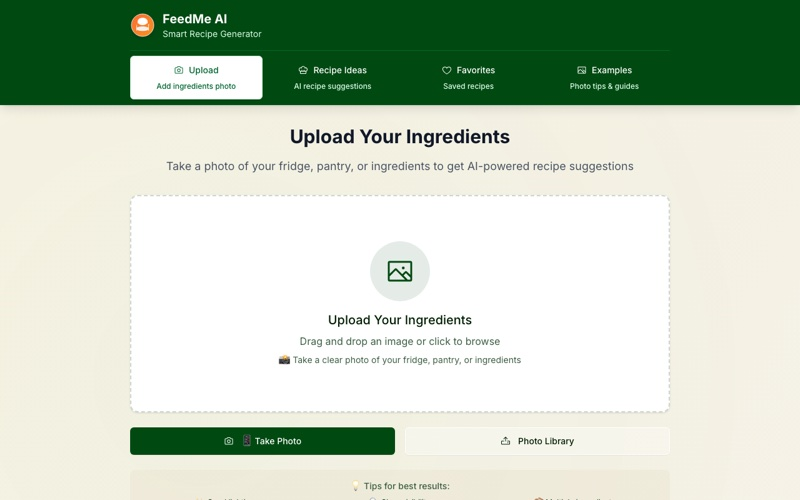
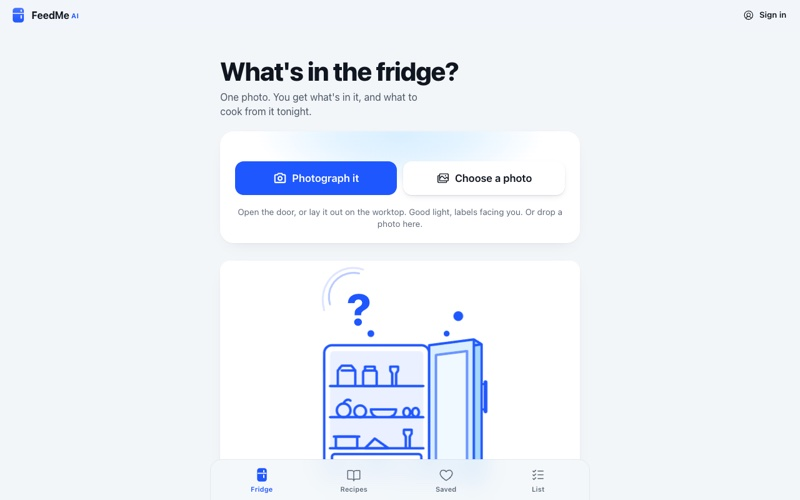
Bring FeedMe AI's page up to date with the shopping list
The app grew the second half of its own job since this was written: missing
ingredients now go onto a list from any recipe, and one button searches the
lot and regroups the answers by supermarket. That needed an account, which
also got the API keys out of the browser and into a Worker — so the page now
says all of that, and the screenshot shows the tab bar it arrived in.

Also drops a line that had gone stale: nothing surfaces a page of example
photos any more.

diff --git a/src/data/projects.ts b/src/data/projects.ts
@@ -93,15 +93,17 @@ export const live: LiveProject[] = [
     host: 'feedmeai.victorsaly.com',
     repo: 'https://github.com/victorsaly/feedmeAI',
     shot: '/shots/feedmeai.jpg',
-    shotAlt: 'FeedMe AI asking for a photo of your fridge to suggest a recipe',
+    shotAlt:
+      'FeedMe AI asking for a photo of your fridge, with tabs for recipes, saved and the shopping list',
     description:
-      'Tell it what is actually in the fridge and it suggests something you can cook tonight. It works from the ingredients you already have rather than the ones a recipe wishes you had, which is the only part of meal planning I have ever found genuinely hard.',
+      'Tell it what is actually in the fridge and it suggests something you can cook tonight — then carries the two or three things you are missing through to the shop. It works from the ingredients you already have rather than the ones a recipe wishes you had, which is the only part of meal planning I have ever found genuinely hard.',
     story: [
       'Every recipe site starts from a dish and hands you a shopping list. FeedMe starts from the other end: photograph what is actually in the fridge, and it works out what you can cook tonight from that. In my experience the ingredients you already have are the only genuinely hard part of meal planning, so that is the whole product.',
-      'You take a photo of the fridge, the pantry, or a pile of ingredients on the counter; it identifies what it sees and suggests dishes that need nothing you do not have, or nearly nothing. Recipes you like can be kept, and there is a page of example photos showing what kind of picture works best.',
-      'It is deliberately small. No meal plans, no macros, no social feed — one question, answered as well as I can make a model answer it.',
+      'You take a photo of the fridge, the pantry, or a pile of ingredients on the counter; it identifies what it sees and suggests dishes that need nothing you do not have, or nearly nothing. Pick one and it writes the recipe out in full, then walks you through it a step at a time for when your hands are covered in flour. Anything you like can be kept.',
+      'What it could not do until recently is the other half of the job: the things you are still short of. Any line in a recipe now goes onto a shopping list with one tap, tagged with the dish that wanted it, and a single button searches the whole list at once and regroups the answers by supermarket — so the question stops being “where do I buy eggs” and becomes “which shop has most of my list, and for how much”. You say which country you are in, and each result links into that shop’s own search rather than a price-comparison page.',
+      'A list is only useful if it is on the phone in the shop as well as the laptop that made it, which meant an account — so it signs in with the same plain Google redirect as the arcade sites: a name, no email scope, nothing else asked for. That also got every API key out of the browser, where the first version had left one in plain sight. The vision, recipe and shopping calls all run in a small Cloudflare Worker now, with a daily cap so a passer-by cannot spend the quota. It is still deliberately small — no meal plans, no macros, no social feed — just one question followed all the way through.',
     ],
-    tech: ['React', 'TypeScript', 'AI'],
+    tech: ['React', 'TypeScript', 'AI', 'Cloudflare Workers'],
   },
   {
     slug: 'lilis-story-world',
